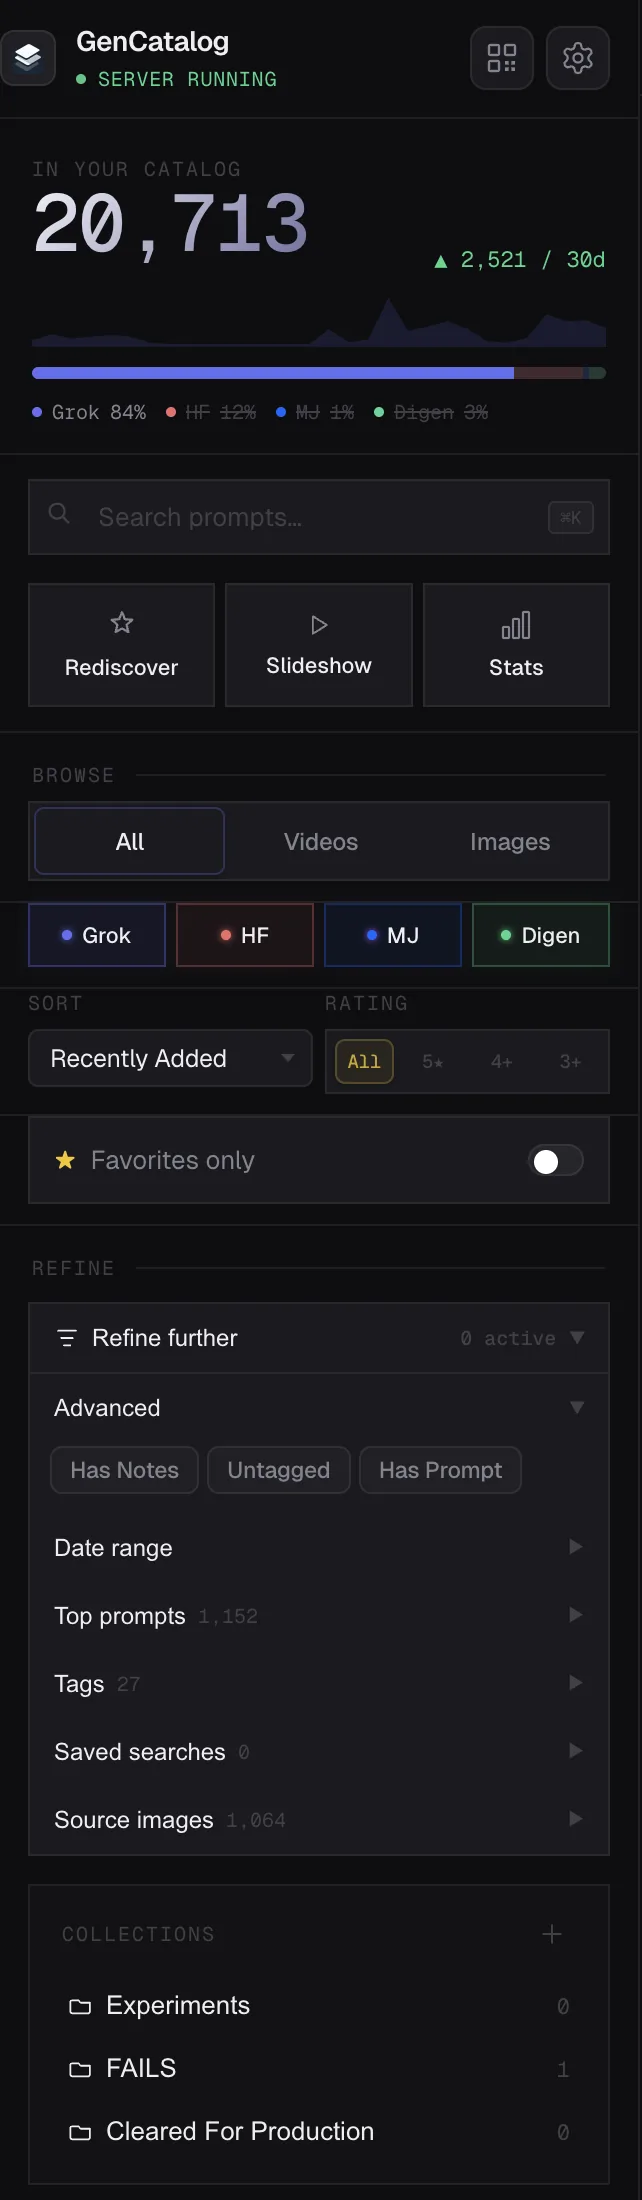
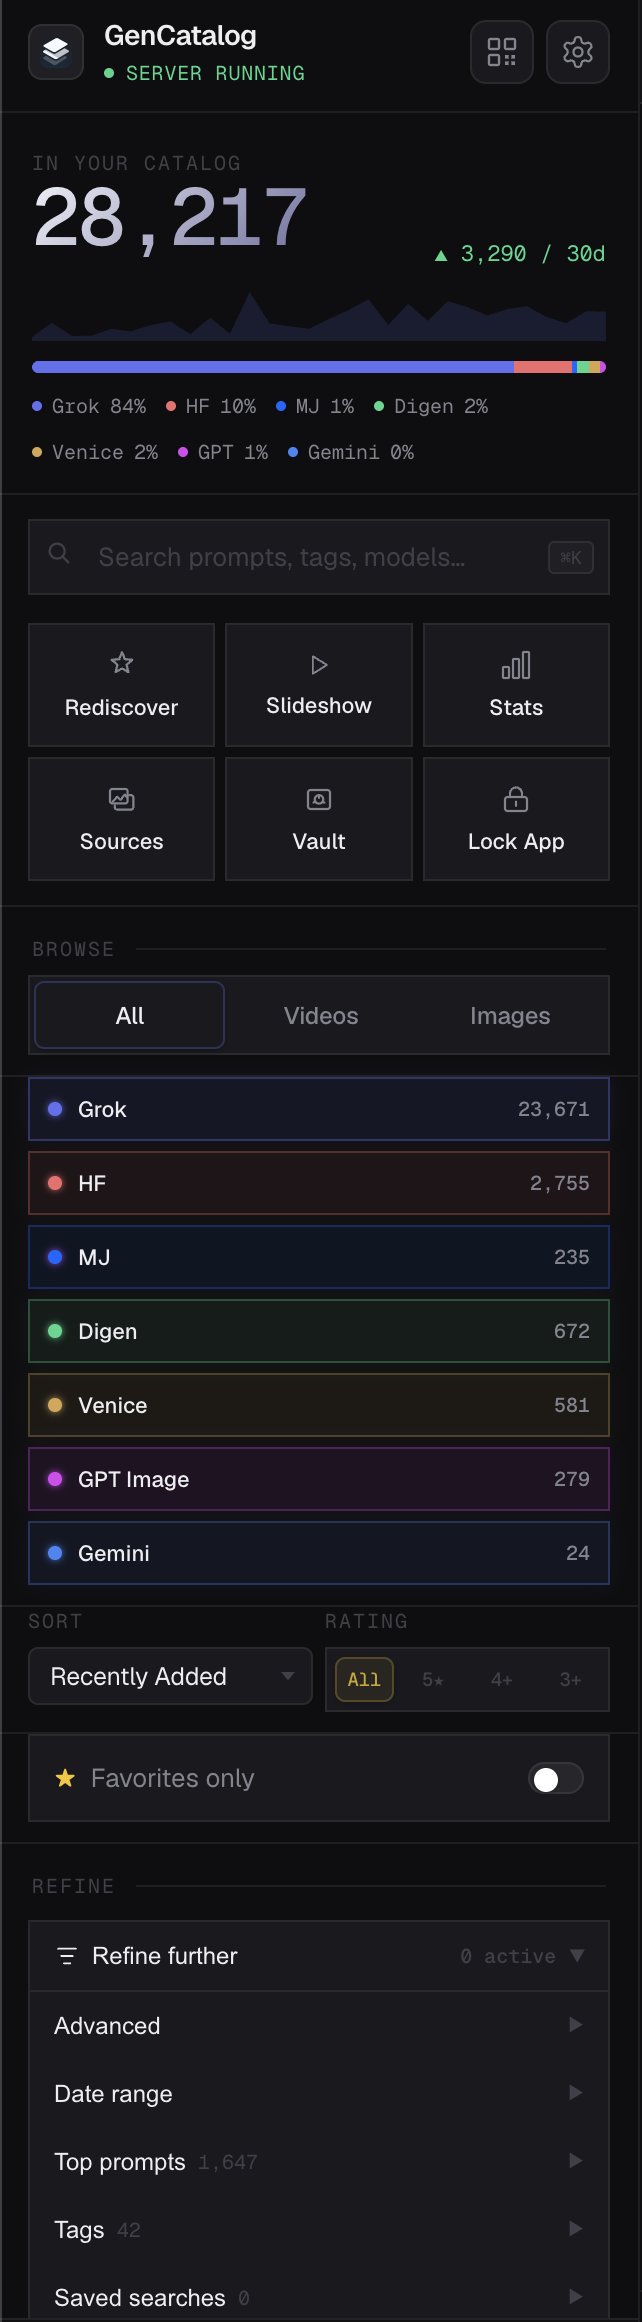
Polish homepage trial CTA and visuals

diff --git a/index.html b/index.html
@@ -257,10 +257,12 @@
     }
     .platforms-row {
       display: flex;
+      flex-direction: column;
       align-items: center;
-      justify-content: space-between;
-      gap: 40px;
+      justify-content: center;
+      gap: 18px;
       flex-wrap: wrap;
+      text-align: center;
     }
     .platforms-label {
       font-family: var(--font-mono);
@@ -270,7 +272,7 @@
       color: var(--t3);
     }
     .platform-marks {
-      display: flex; gap: 36px; align-items: center; flex-wrap: wrap;
+      display: flex; gap: 16px 36px; align-items: center; justify-content: center; flex-wrap: wrap;
     }
     .platform-mark {
       display: inline-flex; align-items: center; gap: 8px;
@@ -960,7 +962,7 @@
       <a href="/faq">FAQ</a>
     </div>
     <a class="nav-cta" href="/get">
-      Download free
+      Start free
       <span style="color:var(--t3); font-family:var(--font-mono); font-size:11px;">↗</span>
     </a>
     <button class="nav-toggle" type="button" aria-expanded="false" aria-controls="site-menu" aria-label="Open menu">
@@ -998,15 +1000,15 @@
 
     <div class="hero-cta reveal delay-4">
       <a class="btn btn-primary" href="/get">
-        Keep your work
-        <span style="opacity:.7">— Free for 7 days</span>
+        Start free
+        <span style="opacity:.7">— No card needed</span>
       </a>
       <a class="btn btn-secondary" href="#how">See how it works</a>
     </div>
 
     <div class="hero-trust reveal delay-5">
       <span class="dot"></span>
-      <span>Mac &amp; Windows · Local by default · No account required</span>
+      <span>7-day trial · Up to 250 saves free · Local by default</span>
     </div>
   </div>
 
@@ -1163,7 +1165,7 @@
         <li><div><strong>Advanced</strong> — Has Notes, Untagged, Has Prompt.</div></li>
       </ul>
       <div class="showcase-image" style="width:340px;">
-        <img src="uploads_v2/SideBar-642.webp" alt="GenCatalog sidebar — full filter rail with sources, ratings, refine drawer, advanced filters, saved searches, and collections" width="642" height="2200" loading="lazy" decoding="async" style="width:100%; height:auto; display:block;">
+        <img src="uploads_v2/SideBar-642.webp" alt="GenCatalog sidebar — full filter rail with sources, ratings, refine drawer, advanced filters, saved searches, and collections" width="642" height="2322" loading="lazy" decoding="async" style="width:100%; height:auto; display:block;">
       </div>
       <ul class="feature-list filter-pillars" style="font-size:22px; line-height:1.5;">
         <li><div><strong>Date range, top prompts, source images.</strong></div></li>
@@ -1414,7 +1416,7 @@
       <p class="pricing-value-line">Buy once for $39 before it moves to $79.</p>
       <div class="ctas">
         <a class="btn btn-primary" href="https://secondactlabs.lemonsqueezy.com/checkout/buy/3b893527-ed40-40b5-8f6f-9451c01f30f1">Buy now — $39</a>
-        <a class="btn btn-secondary" href="/get">Download free</a>
+        <a class="btn btn-secondary" href="/get">Start free trial</a>
       </div>
       <div class="pf">macOS (Apple Silicon + Intel) · Windows 10/11</div>
     </div>
@@ -1430,8 +1432,8 @@
     </p>
     <div class="hero-cta reveal delay-2">
       <a class="btn btn-primary" href="/get">
-        Download free
-        <span style="opacity:.7">↓</span>
+        Start free trial
+        <span style="opacity:.7">— No card</span>
       </a>
       <a class="btn btn-secondary" href="https://chromewebstore.google.com/detail/dcmghhapbfbldjoilamnnalkagejndfb">Install Chrome extension</a>
     </div>
